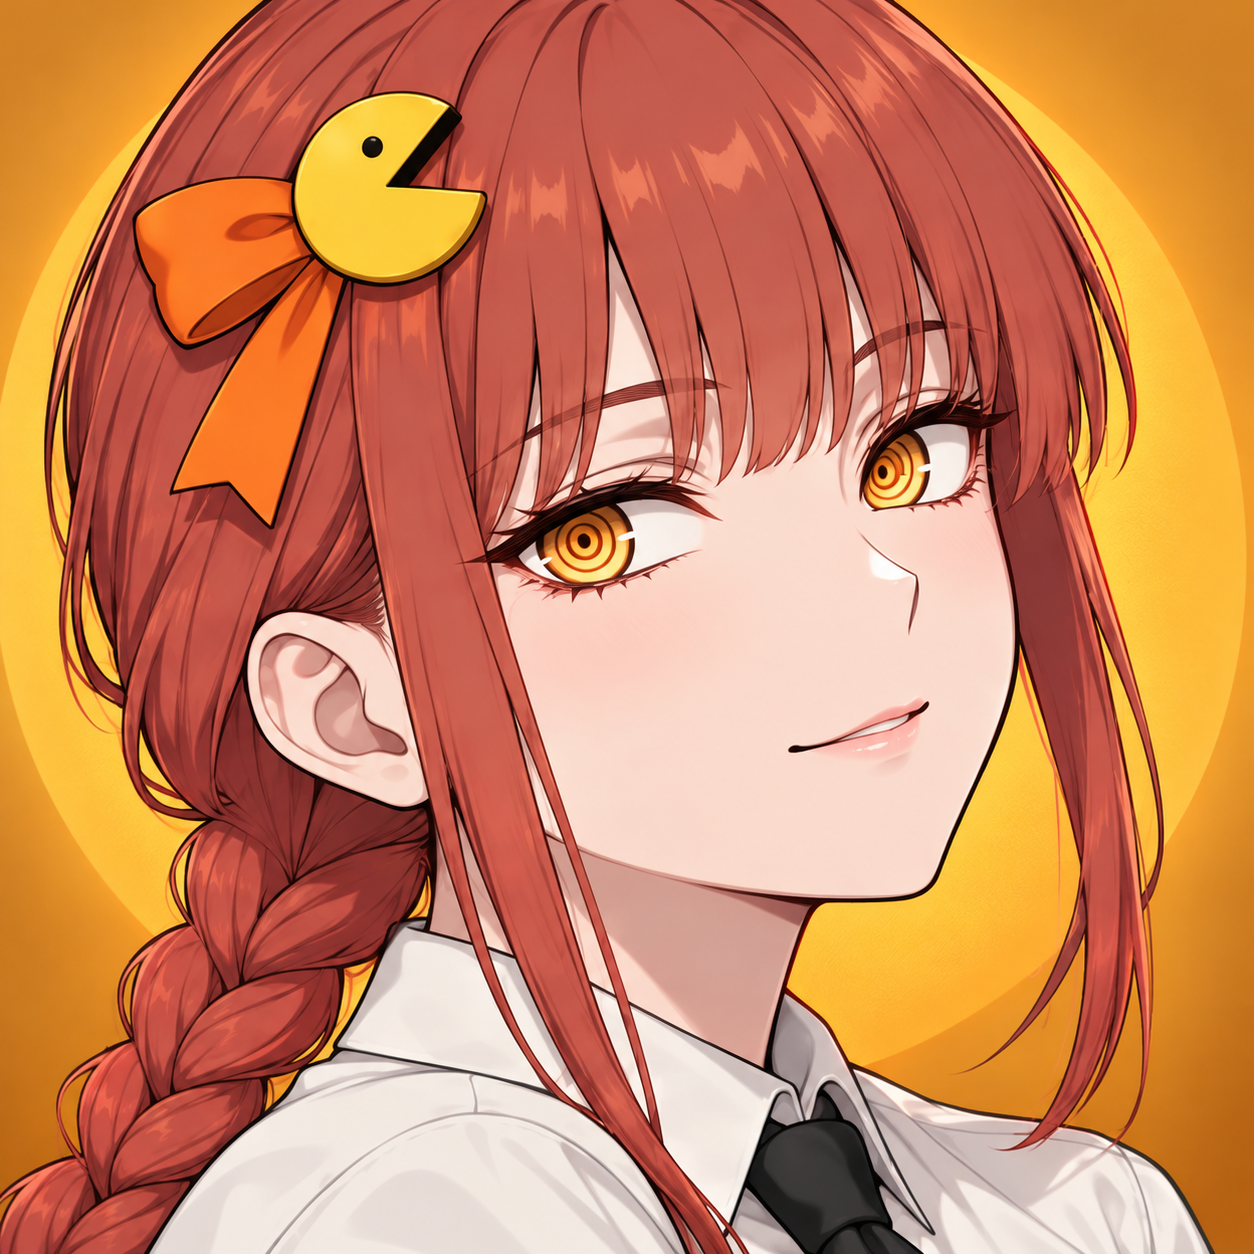
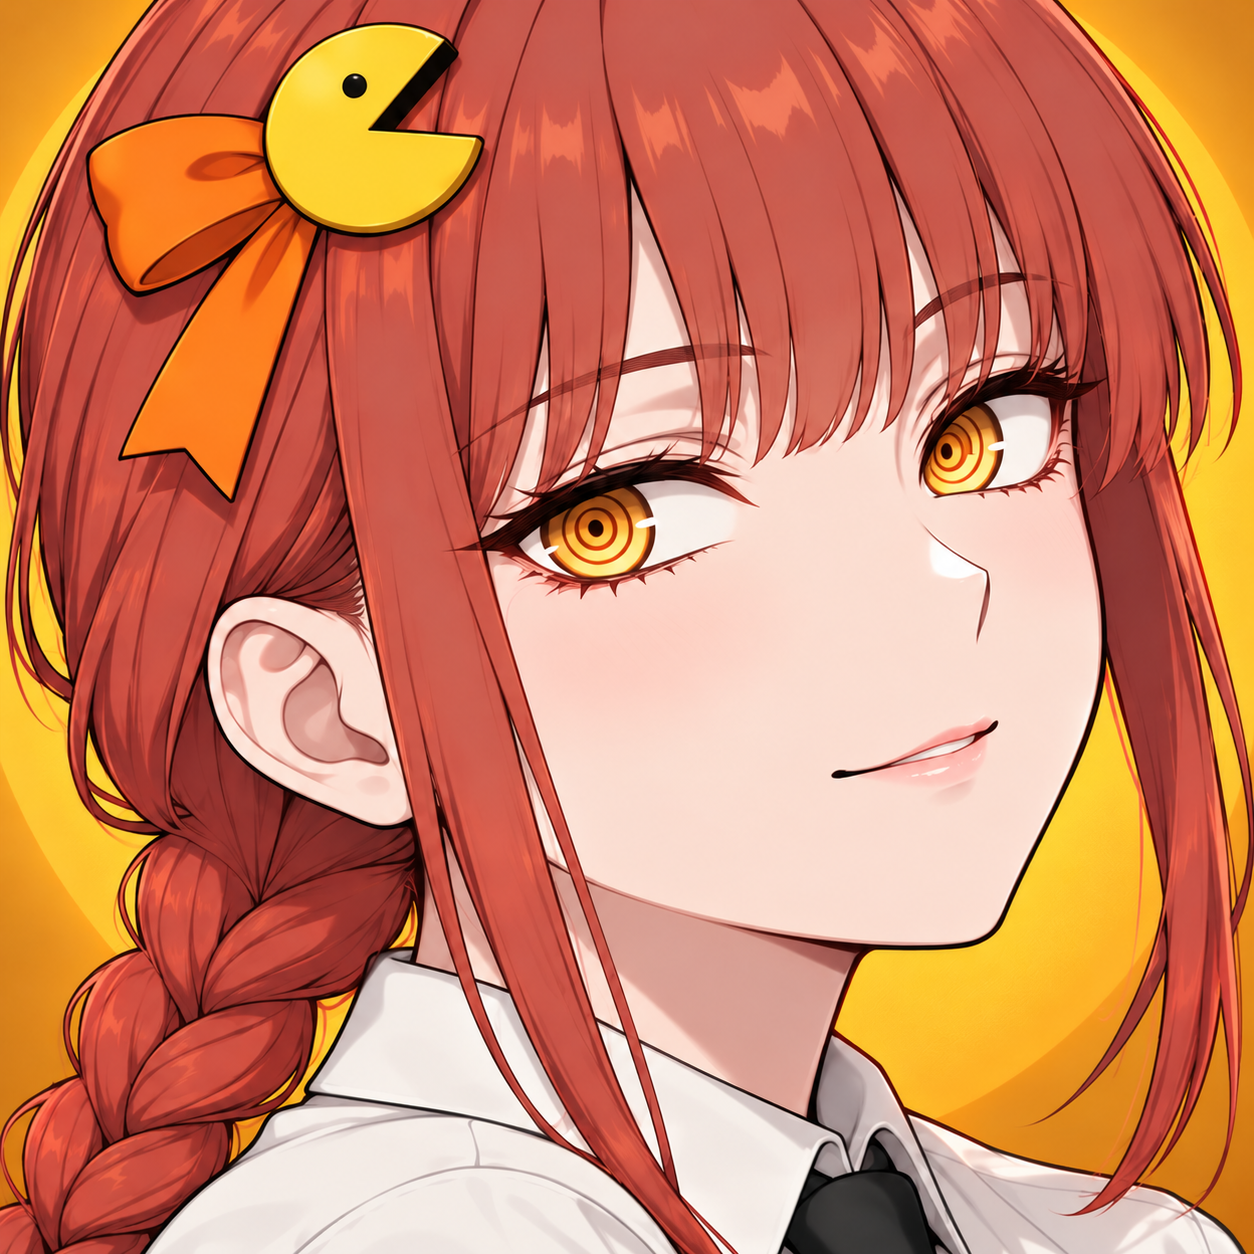
Automatically capture on contact with bite effects and enlarge selection portraits

diff --git a/index.html b/index.html
@@ -1,1 +1,1 @@
-<!doctype html><html lang="ja"><meta charset="utf-8"><meta name="viewport" content="width=device-width, initial-scale=1, maximum-scale=1"><title>ボンバックマン～爆弾娘VSパックガール</title><link rel="stylesheet" href="style.css"><body><header><a href="./">B<span>✦</span>P <b>BONBACKMAN</b></a><span>ARCADE LAB / PROTOTYPE 01</span><button id="mute">音 OFF</button></header><main><div class="intro"><div><small>爆ぜる作戦。食べる逆転。</small><h1>ボンバックマン<span>爆弾娘 <i>VS</i> パックガール</span></h1></div><p>置いて、誘って、逃げ切るか。<br>駆けて、かじって、食べ尽くすか。</p></div><div class="layout"><section class="arena"><div class="score"><div class="pink">✹ 爆弾娘 <b id="left">0</b></div><div class="clock"><small id="round">ROUND 01</small><strong id="time">120</strong></div><div class="yellow"><b id="right">0</b> パックガール ◕</div></div><div class="board"><canvas id="game" width="840" height="616" aria-label="迷路型対戦アリーナ"></canvas><div id="overlay"><small id="overlabel">CHOOSE YOUR SIDE</small><h2 id="overtitle">その一手で、ひっくり返せ。</h2><p id="overtext">チームと人数を選んでバトル開始。<br>あなた以外はCPUが操作します。</p><button id="start">バトル開始　↗</button></div></div><div class="arenafoot"><span id="status">● READY TO PLAY</span><span>WASD / 矢印 ＋ SPACE</span><button id="pause">一時停止</button></div></section><aside><small class="eyebrow">BATTLE SETTINGS</small><h2>どっちで戦う？</h2><div class="teams"><button class="team selected" data-team="0"><img class="portrait-icon" src="assets/reze-portrait.png" alt="レゼ風の顔アップ・首元のチョーカー" width="100" height="100"><b>爆弾娘</b><small>設置 × 爆風</small></button><button class="team" data-team="1"><img class="portrait-icon" src="assets/makima-portrait.png" alt="候補②のマキマ風の顔アップ・パックマン風リボン" width="100" height="100"><b>パックガール</b><small>速さ × 捕食</small></button></div><label for="size">チーム人数</label><select id="size"><option value="1">1 VS 1 — 決闘</option><option value="2" selected>2 VS 2 — タッグ</option><option value="3">3 VS 3 — 乱戦</option><option value="4">4 VS 4 — 総力戦</option></select><div class="ability"><small>YOUR POWER LEVEL</small><div id="powers">爆風　●○○<br>設置　●○○</div><p>ブロックを壊してアイテム回収。<br>紫UP＝射程／茶UP＝設置数＋速度／パックは速度。</p></div><div class="rule"><b>HOW TO WIN</b><p>相手全員を退場させれば勝利。<br>120秒・3ラウンド先取。<br>爆風は自分・味方にも当たる。</p></div><button id="reset">↻ 設定に戻る</button></aside></div><section class="guide"><div><span>01 / MOVE</span><h3>ルートを読もう。</h3><p>WASD / 矢印キーで移動。<br>壁は盾にも、罠にもなる。</p></div><div><span>02 / ATTACK</span><h3>スペースで仕掛ける。</h3><p>爆弾娘は2秒後に爆発する爆弾。<br>捕食は自分のみ → 正面1 → 正面2マス。</p></div><div><span>03 / POWER UP</span><h3>拾って、強くなる。</h3><p>紫UP：射程 ／ 茶UP：爆弾娘は設置数＋速度。<br>捕食は0.5秒で消える。長押し連射なし。</p></div></section><div class="touch"><div class="dpad"><button data-dir="up">↑</button><button data-dir="left">←</button><button data-dir="down">↓</button><button data-dir="right">→</button></div><button id="attack">攻撃</button></div><footer>BONBACKMAN <span>ORIGINAL CHARACTERS · CPU BATTLE PROTOTYPE</span></footer></main><script type="module" src="game.js"></script></body></html>
+<!doctype html><html lang="ja"><meta charset="utf-8"><meta name="viewport" content="width=device-width, initial-scale=1, maximum-scale=1"><title>ボンバックマン～爆弾娘VSパックガール</title><link rel="stylesheet" href="style.css"><body><header><a href="./">B<span>✦</span>P <b>BONBACKMAN</b></a><span>ARCADE LAB / PROTOTYPE 01</span><button id="mute">音 OFF</button></header><main><div class="intro"><div><small>爆ぜる作戦。食べる逆転。</small><h1>ボンバックマン<span>爆弾娘 <i>VS</i> パックガール</span></h1></div><p>置いて、誘って、逃げ切るか。<br>駆けて、かじって、食べ尽くすか。</p></div><div class="layout"><section class="arena"><div class="score"><div class="pink">✹ 爆弾娘 <b id="left">0</b></div><div class="clock"><small id="round">ROUND 01</small><strong id="time">120</strong></div><div class="yellow"><b id="right">0</b> パックガール ◕</div></div><div class="board"><canvas id="game" width="840" height="616" aria-label="迷路型対戦アリーナ"></canvas><div id="overlay"><small id="overlabel">CHOOSE YOUR SIDE</small><h2 id="overtitle">その一手で、ひっくり返せ。</h2><p id="overtext">チームと人数を選んでバトル開始。<br>あなた以外はCPUが操作します。</p><button id="start">バトル開始　↗</button></div></div><div class="arenafoot"><span id="status">● READY TO PLAY</span><span>WASD / 矢印 ＋ SPACE</span><button id="pause">一時停止</button></div></section><aside><small class="eyebrow">BATTLE SETTINGS</small><h2>どっちで戦う？</h2><div class="teams"><button class="team selected" data-team="0"><img class="portrait-icon" src="assets/reze-portrait.png" alt="レゼ風の顔アップ・首元のチョーカー" width="100" height="100"><b>爆弾娘</b><small>設置 × 爆風</small></button><button class="team" data-team="1"><img class="portrait-icon" src="assets/makima-portrait.png" alt="候補②のマキマ風の顔アップ・パックマン風リボン" width="100" height="100"><b>パックガール</b><small>速さ × 捕食</small></button></div><label for="size">チーム人数</label><select id="size"><option value="1">1 VS 1 — 決闘</option><option value="2" selected>2 VS 2 — タッグ</option><option value="3">3 VS 3 — 乱戦</option><option value="4">4 VS 4 — 総力戦</option></select><div class="ability"><small>YOUR POWER LEVEL</small><div id="powers">爆風　●○○<br>設置　●○○</div><p>ブロックを壊してアイテム回収。<br>紫UP＝射程／茶UP＝設置数＋速度／パックは速度。</p></div><div class="rule"><b>HOW TO WIN</b><p>相手全員を退場させれば勝利。<br>120秒・3ラウンド先取。<br>爆風は自分・味方にも当たる。</p></div><button id="reset">↻ 設定に戻る</button></aside></div><section class="guide"><div><span>01 / MOVE</span><h3>ルートを読もう。</h3><p>WASD / 矢印キーで移動。<br>壁は盾にも、罠にもなる。</p></div><div><span>02 / ATTACK</span><h3>スペースで仕掛ける。</h3><p>爆弾娘は2秒後に爆発する爆弾。<br>接触で自動捕食。紫UPで正面1→2マス。</p></div><div><span>03 / POWER UP</span><h3>拾って、強くなる。</h3><p>紫UP：射程 ／ 茶UP：爆弾娘は設置数＋速度。<br>捕食は0.5秒で消える。長押し連射なし。</p></div></section><div class="touch"><div class="dpad"><button data-dir="up">↑</button><button data-dir="left">←</button><button data-dir="down">↓</button><button data-dir="right">→</button></div><button id="attack">攻撃</button></div><footer>BONBACKMAN <span>ORIGINAL CHARACTERS · CPU BATTLE PROTOTYPE</span></footer></main><script type="module" src="game.js"></script></body></html>

diff --git a/battle.js b/battle.js
@@ -17,11 +17,22 @@ export class Battle{
  get player(){return this.actors.find(a=>a.human)}
  cells(b){const cells=[[b.x,b.y]];for(const [dx,dy]of DIRS){const len=Math.max(1,Math.floor(((dx?this.w:this.h)*b.level/3-1)/2));for(let i=1;i<=len;i++){const x=b.x+dx*i,y=b.y+dy*i,v=this.map[y]?.[x];if(v===undefined||v===1)break;cells.push([x,y]);if(v===2)break;}}return cells;}
  bombAt(x,y){return this.bombs.find(b=>b.x===x&&b.y===y)}
- move(a,d){if(!a.alive||a.wait>0||this.finished)return false;a.dir=d;const [dx,dy]=DIRS[d],x=a.x+dx,y=a.y+dy;if(this.map[y]?.[x]!==0||this.bombAt(x,y))return false;a.motion={x:a.x,y:a.y,duration:CONFIG.baseStep/speedMultiplier(a)};a.x=x;a.y=y;a.wait=a.motion.duration;this.pickup(a);return true;}
+ move(a,d){if(!a.alive||a.wait>0||this.finished)return false;a.dir=d;const [dx,dy]=DIRS[d],x=a.x+dx,y=a.y+dy;if(this.map[y]?.[x]!==0||this.bombAt(x,y))return false;a.motion={x:a.x,y:a.y,duration:CONFIG.baseStep/speedMultiplier(a)};a.x=x;a.y=y;a.wait=a.motion.duration;this.pickup(a);this.consumeContacts();return true;}
  pickup(a){const item=this.items.find(i=>i.x===a.x&&i.y===a.y);if(item){const ability=a.team?1-item.kind:item.kind;a.level[ability]=Math.min(3,a.level[ability]+1);this.items.splice(this.items.indexOf(item),1);this.events.push('pickup');}}
  attack(a){if(!a.alive||a.cool>0||this.finished)return false;if(!a.team){if(this.bombAt(a.x,a.y)||this.bombs.filter(b=>b.owner===a.id).length>=a.level[1])return false;this.bombs.push({x:a.x,y:a.y,t:2,level:a.level[0],owner:a.id,team:0});a.cool=.3;this.events.push('place');return true;}
  this.bites.push({x:a.x,y:a.y,dir:a.dir,reach:a.level[1]-1,t:.16+.08*(a.level[1]-1),visible:CONFIG.biteLifetime,active:CONFIG.biteActive,actor:a.id,done:false});a.cool=CONFIG.biteCooldown+.08*(a.level[1]-1);this.events.push('bite');return true;}
- biteCells(b){const a=this.actors.find(a=>a.id===b.actor);if(!a?.alive)return [];const cells=[[a.x,a.y]];const[dx,dy]=DIRS[b.dir];for(let i=1;i<=b.reach;i++){const x=a.x+dx*i,y=a.y+dy*i,v=this.map[y]?.[x];if(v===undefined||v===1||this.bombAt(x,y))break;cells.push([x,y]);if(v===2)break;}return cells;}
+ consumeContacts(){
+  for(const a of this.actors){if(!a.alive||a.team!==1)continue;
+   const enemies=this.actors.filter(e=>e.alive&&e.team===0&&e.x===a.x&&e.y===a.y);if(!enemies.length)continue;
+   for(const enemy of enemies)enemy.alive=false;
+   // Contact always eats, including during the manual attack cooldown.
+   // The visual reuses the normal bite icon without granting extra ranged damage.
+   this.bites=this.bites.filter(b=>!(b.contact&&b.actor===a.id));
+   this.bites.push({x:a.x,y:a.y,dir:a.dir,reach:0,t:0,visible:CONFIG.biteLifetime,active:0,actor:a.id,done:true,contact:true});
+   a.cool=Math.max(a.cool,CONFIG.biteCooldown+.08*(a.level[1]-1));this.events.push('bite','out');
+  }
+ }
+ biteCells(b){if(b.contact)return [[b.x,b.y]];const a=this.actors.find(a=>a.id===b.actor);if(!a?.alive)return [];const cells=[[a.x,a.y]];const[dx,dy]=DIRS[b.dir];for(let i=1;i<=b.reach;i++){const x=a.x+dx*i,y=a.y+dy*i,v=this.map[y]?.[x];if(v===undefined||v===1||this.bombAt(x,y))break;cells.push([x,y]);if(v===2)break;}return cells;}
  resolveBite(b){const a=this.actors.find(a=>a.id===b.actor);if(!a?.alive)return;if(b.reach===0&&!b.chewed){const[dx,dy]=DIRS[b.dir],x=a.x+dx,y=a.y+dy;if(this.map[y]?.[x]===2){const k=x+','+y;this.chew??={};this.chew[k]=(this.chew[k]||0)+1;if(this.chew[k]>=2)this.breakBlock(x,y);b.chewed=true;}}for(const[x,y]of this.biteCells(b)){if(this.map[y][x]===2){if(!b.chewed){const k=x+','+y;this.chew??={};this.chew[k]=(this.chew[k]||0)+1;if(this.chew[k]>=2)this.breakBlock(x,y);b.chewed=true;}break;}const enemies=this.actors.filter(e=>e.alive&&e.team!==a.team&&e.x===x&&e.y===y);if(enemies.length){for(const enemy of enemies)enemy.alive=false;this.events.push('out');b.done=true;break;}}}
  breakBlock(x,y){this.map[y][x]=0;if(this.random()<.72)this.items.push({x,y,kind:this.random()<.5?0:1});}
  explode(b){if(!this.bombs.includes(b))return;const cells=this.cells(b);this.bombs.splice(this.bombs.indexOf(b),1);this.fire.push({cells,t:CONFIG.fire,team:b.team});this.events.push('boom');for(const[x,y]of cells){if(this.map[y][x]===2)this.breakBlock(x,y);const other=this.bombAt(x,y);if(other)this.explode(other);}}
@@ -75,7 +86,7 @@ export class Battle{
    }}
   if(best){const[dx,dy]=DIRS[best.first];if(a.team&&this.map[a.y+dy]?.[a.x+dx]===2){a.dir=best.first;this.attack(a);}else this.move(a,best.first);}
  }
- update(dt,input={}){if(this.finished)return;const attackPressed=!!input.attack&&!this.attackHeld;this.attackHeld=!!input.attack;this.time=Math.max(0,this.time-dt);for(const a of this.actors){a.wait=Math.max(0,a.wait-dt);a.cool=Math.max(0,a.cool-dt);if(!a.alive)continue;if(a.human){if(input.dir!==undefined)this.move(a,input.dir);if(a.team?attackPressed:input.attack)this.attack(a);}else{a.ai-=dt;if(a.ai<=0){this.cpu(a);a.ai=.035+this.random()*.025;}}}
+ update(dt,input={}){if(this.finished)return;const attackPressed=!!input.attack&&!this.attackHeld;this.attackHeld=!!input.attack;this.time=Math.max(0,this.time-dt);this.consumeContacts();for(const a of this.actors){a.wait=Math.max(0,a.wait-dt);a.cool=Math.max(0,a.cool-dt);if(!a.alive)continue;if(a.human){if(input.dir!==undefined)this.move(a,input.dir);if(a.team?attackPressed:input.attack)this.attack(a);}else{a.ai-=dt;if(a.ai<=0){this.cpu(a);a.ai=.035+this.random()*.025;}}}
  for(const b of [...this.bombs]){b.t-=dt;if(b.t<=0)this.explode(b);}for(const b of this.bites){const previousWindup=b.t;b.t-=dt;b.visible-=dt;if(b.t<=0&&!b.done&&b.visible>0){this.resolveBite(b);b.active-=Math.max(0,dt-Math.max(0,previousWindup));if(b.active<=0)b.done=true;}}this.bites=this.bites.filter(b=>b.visible>0);
  for(const f of this.fire){for(const a of this.actors)if(a.alive&&f.cells.some(([x,y])=>a.x===x&&a.y===y)){a.alive=false;this.events.push('out');}f.t-=dt;}this.fire=this.fire.filter(f=>f.t>0);
  const counts=[0,1].map(t=>this.actors.filter(a=>a.alive&&a.team===t).length);if(counts.includes(0)||this.time<=0){this.finished=true;this.result=counts[0]===counts[1]?-1:counts[0]>counts[1]?0:1;}}

diff --git a/game.js b/game.js
@@ -104,10 +104,10 @@ function packGirl(a,S){
 function girl(a,S){if(a.team===0)bombGirl(a,S);else packGirl(a,S);}
 function biteIcon(b,x,y,S){
  const owner=game.actors.find(a=>a.id===b.actor);if(!owner?.alive)return;
- const ownCell=x===owner.x&&y===owner.y,active=b.t<=0&&!b.done;
+ const ownCell=x===owner.x&&y===owner.y,active=b.contact?b.visible>.25:b.t<=0&&!b.done;
  ctx.save();ctx.translate((x+.5)*S,(y+(ownCell?.20:.5))*S);ctx.rotate((b.dir-1)*Math.PI/2);
  const r=S*(ownCell?.19:.31),mouth=active?.17:.31;
- ctx.globalAlpha=b.done?.45:1;ctx.shadowColor='#ffec89';ctx.shadowBlur=active?9:3;
+ ctx.globalAlpha=b.done&&!b.contact?.45:1;ctx.shadowColor='#ffec89';ctx.shadowBlur=active?9:3;
  ctx.fillStyle=active?'#ffcf4c':'#ffe68a';ctx.strokeStyle='#5b3629';ctx.lineWidth=Math.max(1.5,S*.035);
  ctx.beginPath();ctx.moveTo(0,0);ctx.arc(0,0,r,Math.PI*mouth,Math.PI*(2-mouth));ctx.closePath();ctx.fill();ctx.stroke();
  ctx.shadowBlur=0;ctx.fillStyle='#332939';ctx.beginPath();ctx.arc(-r*.13,-r*.56,r*.095,0,7);ctx.fill();
@@ -120,7 +120,7 @@ function render(){const S=canvas.width/game.w;if(canvas.height!==game.h*S)canvas
  for(const b of game.bombs)if(b.t<.65)for(const[x,y]of game.cells(b))rect(x*S+3,y*S+3,S-6,S-6,`rgba(255,100,124,${.12+Math.sin(performance.now()/70)*.08})`);
  for(const i of game.items){const x=i.x*S,y=i.y*S;rect(x+S*.12,y+S*.12,S*.76,S*.76,'#fff2da',7);rect(x+S*.16,y+S*.16,S*.68,S*.68,i.kind?'#925a34':'#9853d6',5);text('UP',x+S*.5,y+S*.59,S*.30,'#ffffff');text(i.kind?'Ⅱ':'Ⅰ',x+S*.5,y+S*.79,S*.13,'#fff2da');}
  for(const b of game.bombs){const x=(b.x+.5)*S,y=(b.y+.55)*S;ctx.fillStyle=b.t<.55&&Math.sin(performance.now()/55)>0?'#ff6582':'#111728';ctx.beginPath();ctx.arc(x,y,S*.27,0,7);ctx.fill();text('✧',x-S*.07,y,S*.25,'#b6c0dd');text('✹',x+S*.15,y-S*.25,S*.25,'#ffce72');}
- for(const b of game.bites){for(const[x,y]of game.biteCells(b))rect(x*S+5,y*S+5,S-10,S-10,b.t<=0&&!b.done?'#ffe49eaa':'#ffe49e33');}
+ for(const b of game.bites){for(const[x,y]of game.biteCells(b))rect(x*S+5,y*S+5,S-10,S-10,b.contact||b.t<=0&&!b.done?'#ffe49eaa':'#ffe49e33');}
  for(const a of game.actors)girl({...a,...visualPosition(a)},S);
  for(const b of game.bites)for(const[x,y]of game.biteCells(b))biteIcon(b,x,y,S);
  for(const f of game.fire)for(const[x,y]of f.cells){rect(x*S+2,y*S+2,S-4,S-4,'#ff9c58cc',6);text('✦',(x+.5)*S,(y+.74)*S,S*.68,'#fff3af');}

diff --git a/test/battle.test.js b/test/battle.test.js
@@ -75,3 +75,21 @@ test('bomber brown UP caps movement at 1.3 and 1.6 with bomb capacity retained',
  }
  g.items.push({x:a.x,y:a.y,kind:1});g.pickup(a);assert.equal(speedMultiplier(a),1.6);
 });
+
+test('overlap automatically eats without attack even during cooldown and shows bite action',()=>{
+ const g=arena(1,1),a=g.player,e=g.actors[0];a.x=e.x=5;a.y=e.y=3;a.cool=5;g.update(.01);
+ assert.equal(e.alive,false);const effect=g.bites.find(b=>b.contact);assert.ok(effect);assert.equal(effect.reach,0);assert.ok(g.events.includes('bite'));assert.ok(g.events.includes('out'));
+});
+test('either team moving into the other triggers immediate contact capture',()=>{
+ for(const movingTeam of[0,1]){const g=arena(1,1),a=g.player,e=g.actors[0];a.x=6;a.y=3;e.x=5;e.y=3;
+  assert.equal(g.move(movingTeam?a:e,movingTeam?3:1),true);assert.equal(e.alive,false);
+ }
+});
+test('contact captures only same-cell enemies, never adjacent ones or allies',()=>{
+ const g=arena(2,1),a=g.player,e=g.actors[0],other=g.actors[1],ally=g.actors[3];a.x=e.x=ally.x=5;a.y=e.y=ally.y=3;other.x=6;other.y=3;g.update(.01);
+ assert.equal(e.alive,false);assert.equal(other.alive,true);assert.equal(ally.alive,true);
+});
+test('contact effect disappears after half a second and does not repeat',()=>{
+ const g=arena(2,1),a=g.player,e=g.actors[0];a.x=e.x=5;a.y=e.y=3;g.update(.01);for(let i=0;i<60;i++)g.update(.01);
+ assert.equal(g.bites.length,0);assert.equal(g.events.filter(e=>e==='out').length,1);
+});
